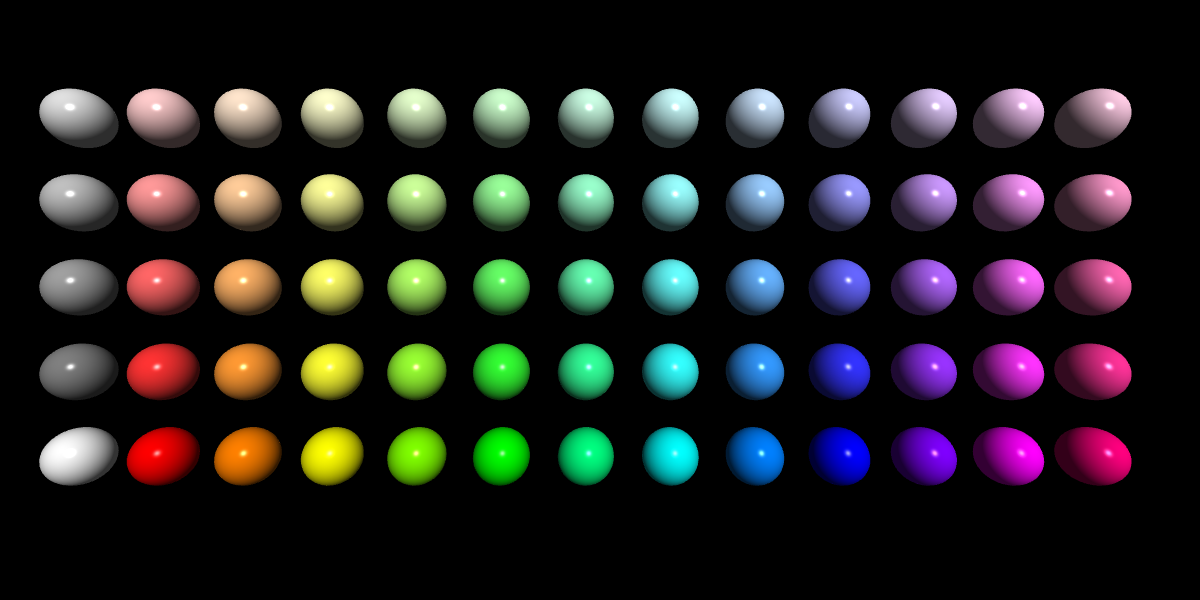
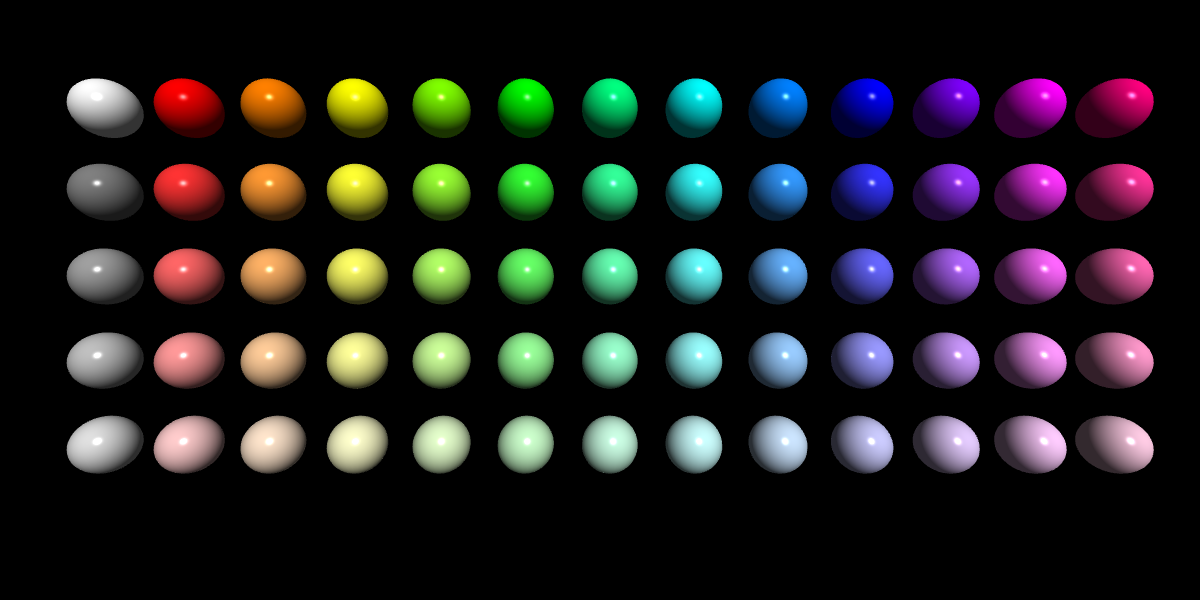
Add screenshot available colors

diff --git a/Test/makeColorTest.py b/Test/makeColorTest.py
@@ -1,5 +1,5 @@
 numberColors = 65
 file = open("Colors.svv", "w")
 for i in range(numberColors):
-    file.write(str(3*(i%13))+" "+str(3*int(i/13))+" 0 1 "+str(i)+"\n")
+    file.write(str(3*(i%13))+" "+str(-3*int(i/13))+" 0 1 "+str(i)+"\n")
 file.close()
